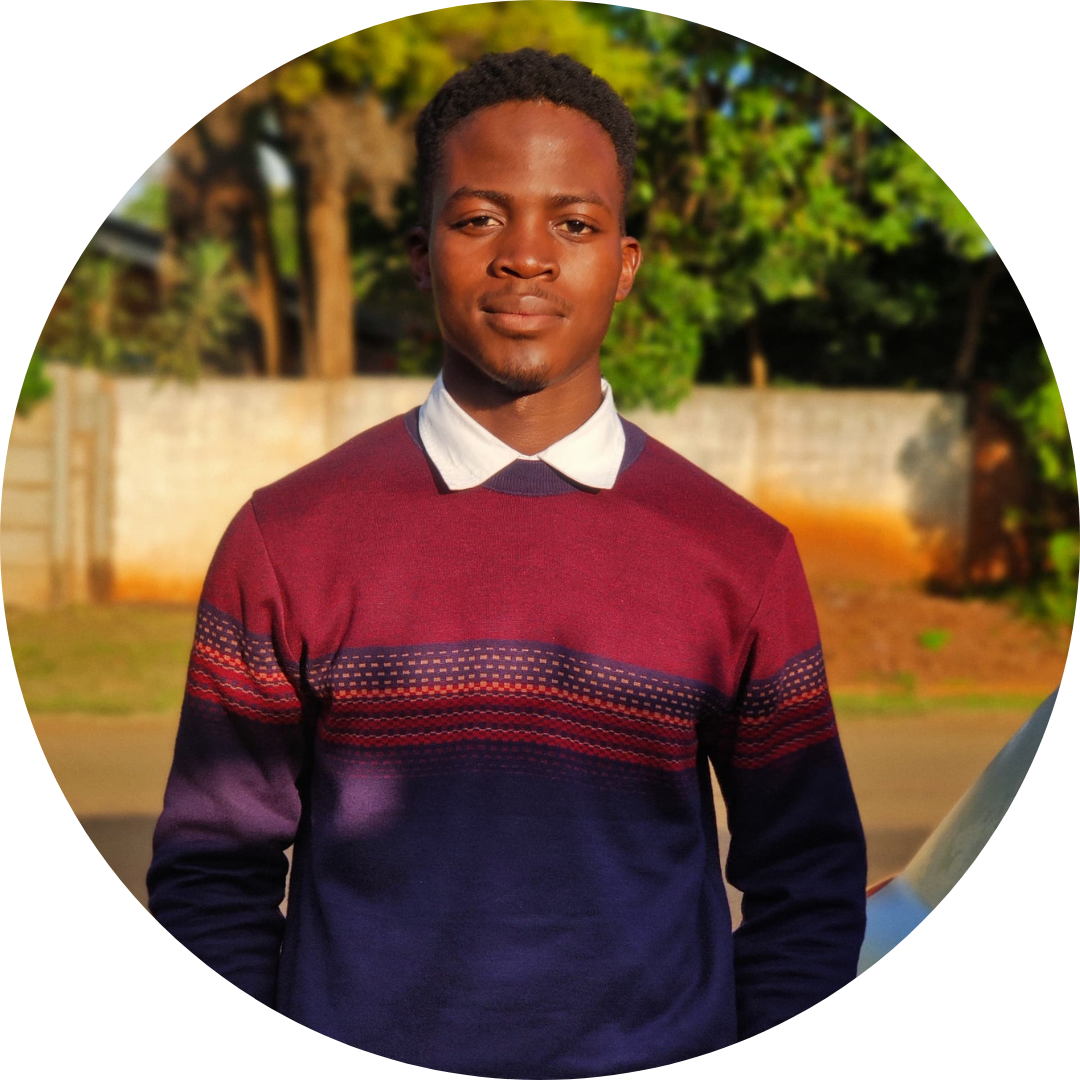
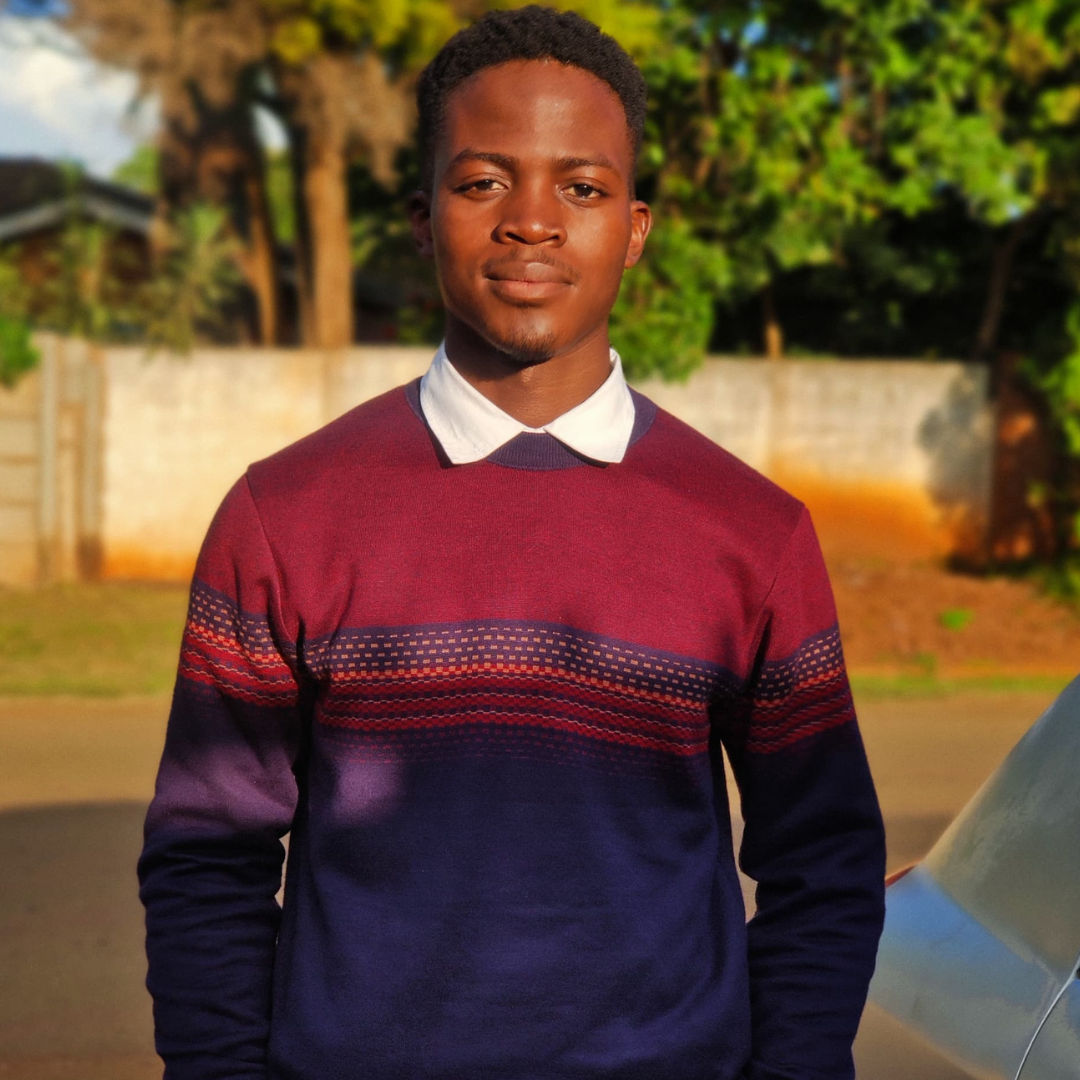
Added Linked In Link, Replaced about-pic

diff --git a/index.html b/index.html
@@ -9,7 +9,7 @@
 </head>
 <body>
     <nav id="desktop-nav">
-        <div class="logo">Joshua Mutenje</div>
+        <div class="logo">Takundanashe Mutenje</div>
         <div>
             <ul class="nav-links">
                 <li><a href="#about">About</a></li>
@@ -20,7 +20,7 @@
     </div>
     </nav>
     <nav id="hamburger-nav">
-      <div class="logo">John Doe</div>
+      <div class="logo">Takundanashe Mutenje</div>
       <div class="hamburger-menu">
         <div class="hamburger-icon" onclick="toggleMenu()">
           <span></span>
@@ -37,7 +37,7 @@
     </nav>
         <section id="profile">
       <div class="section__pic-container">
-        <img src="./assets/profile-pic.png" alt="John Doe profile picture" />
+        <img src="./assets/profile-pic.png" alt="Takundanshe Mutenje profile picture" />
       </div>
       <div class="section__text">
         <p class="section__text__p1">Hello, I'm</p>
@@ -99,17 +99,14 @@
                 class="icon"
               />
               <h3>Education</h3>
-              <p>B.Sc. Bachelors Degree<br />M.Sc. Masters Degree</p>
+              <p>B.Sc. (Hons) in Computer Engineering<br />ICDL Certified</p>
             </div>
           </div>
           <div class="text-container">
             <p>
-              Lorem ipsum dolor sit amet consectetur adipisicing elit. Hic quis
-              reprehenderit et laborum, rem, dolore eum quod voluptate
-              exercitationem nobis, nihil esse debitis maxime facere minus sint
-              delectus velit in eos quo officiis explicabo deleniti dignissimos.
-              Eligendi illum libero dolorum cum laboriosam corrupti quidem,
-              reiciendis ea magnam? Nulla, impedit fuga!
+I'm currently an undergraduate student at the University of Zimbabwe, pursuing a Bachelor's Honours Degree in Computer Engineering. As I enter my third year, I'm preparing for industrial attachment, where I aim to gain hands-on experience in the tech industry and apply my skills in real-world environments.
+
+With over two years of experience in frontend development, I’m passionate about using technology to solve real-world problems. I enjoy building clean, responsive, and user-friendly interfaces using tools like React, Bootstrap, and JavaScript. I'm always exploring new technologies, taking on creative projects, and striving to grow both technically and personally.
             </p>
           </div>
         </div>
@@ -351,7 +348,7 @@
             alt="Email icon"
             class="icon contact-icon email-icon"
           />
-          <p><a href="mailto:examplemail@gmail.com">Example@gmail.com</a></p>
+          <p><a href="mailto:mutenjejoshua@gmail.com">mutenjejoshua@gmail.com</a></p>
         </div>
         <div class="contact-info-container">
           <img
@@ -359,7 +356,7 @@
             alt="LinkedIn icon"
             class="icon contact-icon"
           />
-          <p><a href="https://www.linkedin.com">LinkedIn</a></p>
+          <p><a href="https://www.linkedin.com/in/takundanashe-joshua-mutenje-1a997018a/">LinkedIn</a></p>
         </div>
       </div>
     </section>
